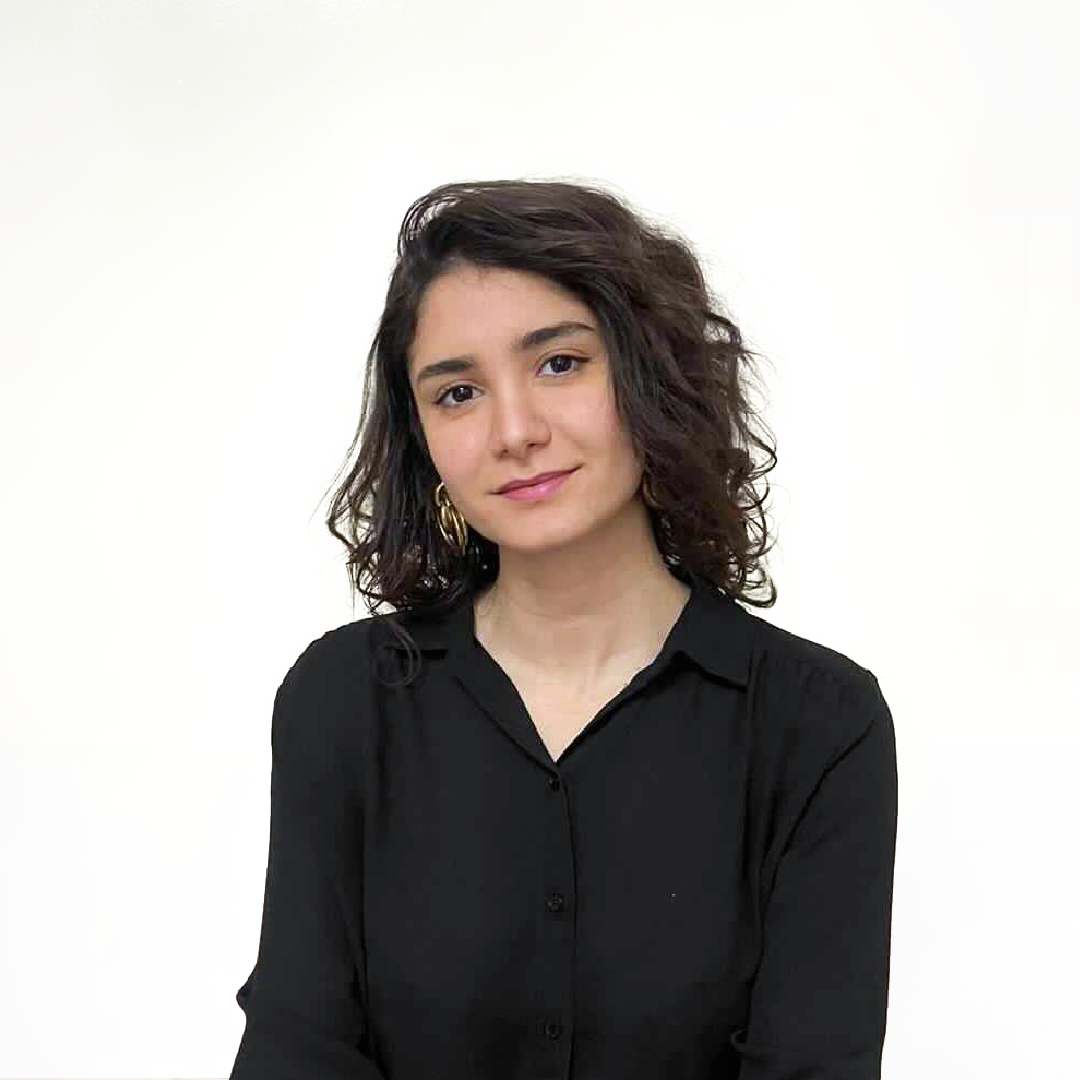
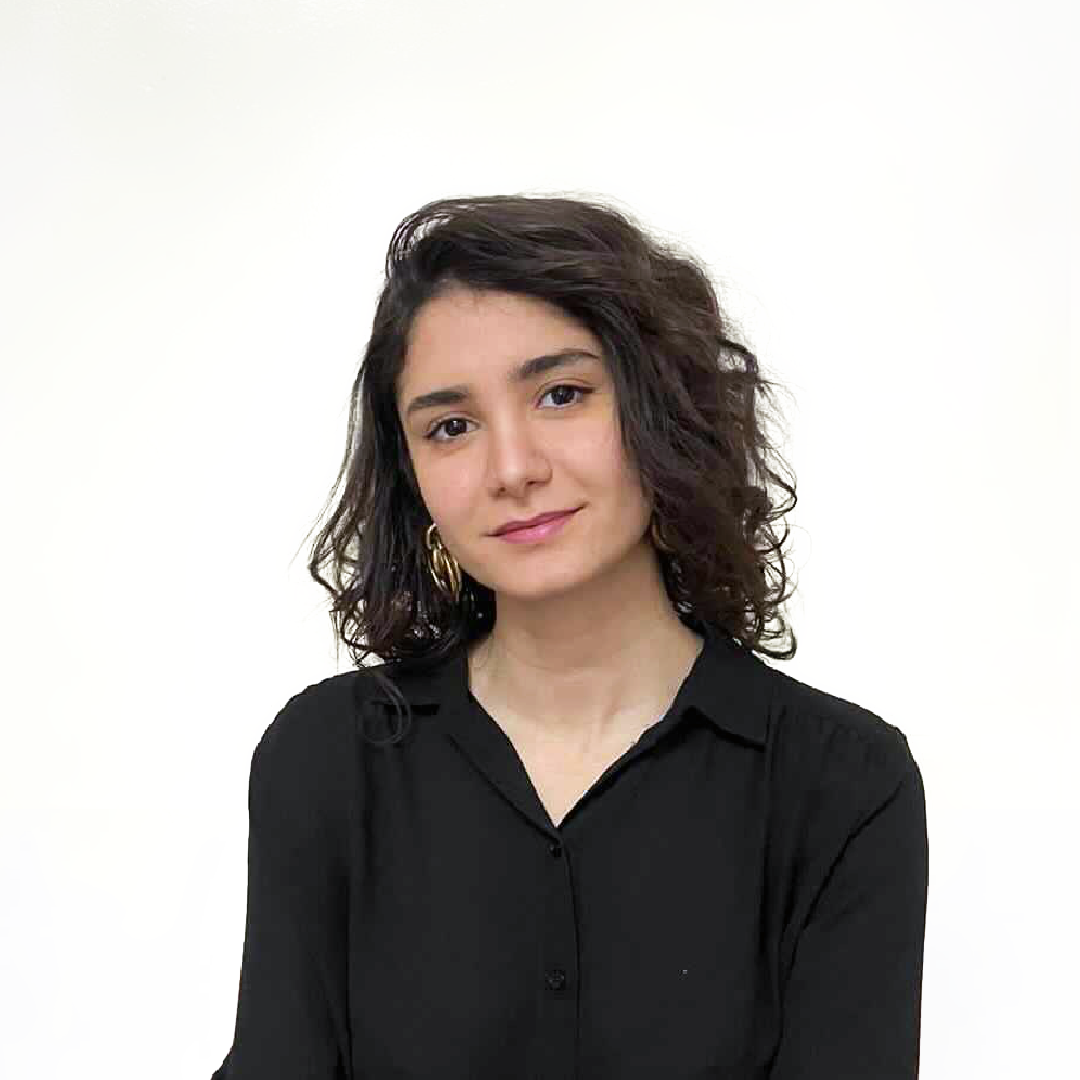
adding resized team pics

diff --git a/pages/team.js b/pages/team.js
@@ -16,24 +16,24 @@ const backgroundColor = "#f7f5f0";
 const teamMembersData = {
   1: {
     src: "/team/Layan.gif",
-    preview: "/team/Mauzoun _ Layan.png",
+    preview: "/team/Mauzoun _ Layan.jpg",
   },
   2: {
     src: "/team/Nada.gif",
-    preview: "/team/Mauzoun _ Nada.png",
+    preview: "/team/Mauzoun _ Nada.jpg",
   },
   3: {
     src: "/team/Omar M.gif",
     preview: "/team/Mauzoun _ Omar AlMalky.png",
   },
   4 : {
-    src: "/team/dalia.gif",
+    src: "/team/Dalia.gif",
     preview: "/team/Mauzoun _ Dalia.png",
   },
 
   5: {
     src: "/team/Amal.gif",
-    preview: "/team/Mauzoun _ Amal.png",
+    preview: "/team/Mauzoun _ Amal.jpg",
   },
   6: {
     src: "/team/Zahrah.gif",
@@ -47,7 +47,7 @@ const teamMembersData = {
   },
   8: {
     src: "/team/Omnia.gif",
-    preview: "/team/Mauzoun _ Omnia.png",
+    preview: "/team/Mauzoun _ Omnia.jpg",
   },
   9: {
     src: "/team/Danah.gif",
@@ -55,11 +55,11 @@ const teamMembersData = {
   },
   10: {
     src: "/team/FJ.gif",
-    preview: "/team/Mauzoun _ Fatmah Jadani.png",
+    preview: "/team/Mauzoun _ Fatmah Jadani.jpg",
   },
   11: {
     src: "/team/FA.gif",
-    preview: "/team/Mauzoun _ Fatimah Alawi.png",
+    preview: "/team/Mauzoun _ Fatimah Alawi.jpg",
   },
   12: {
     src: "/team/Abeer.gif",

diff --git a/pages/boutiquepublishing.js b/pages/boutiquepublishing.js
@@ -187,7 +187,7 @@ export default function BookCommissions({ textAnimationControls, handleBgColorCh
                           </WhiteBox>
                           
                         </div>
-                        {/*<div>{f("underBoxPara")}</div>*/}
+                        {<div>{f("underBoxPara")}</div>}
                       </div>
                      
                     </>
